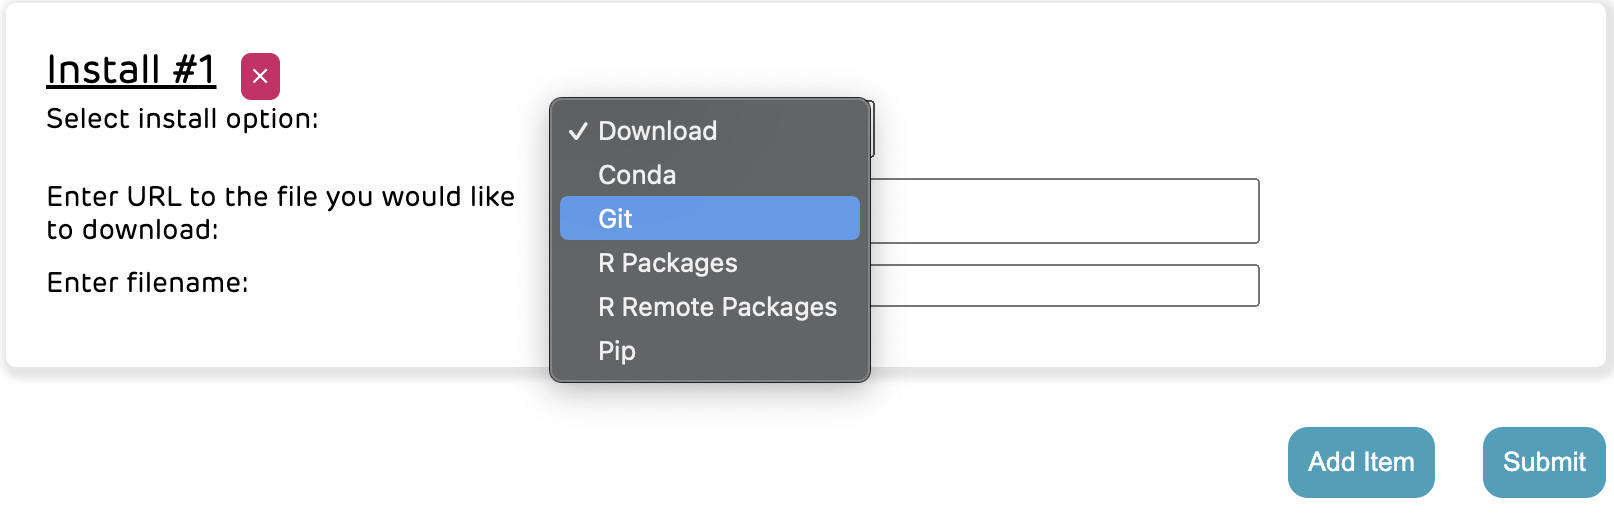
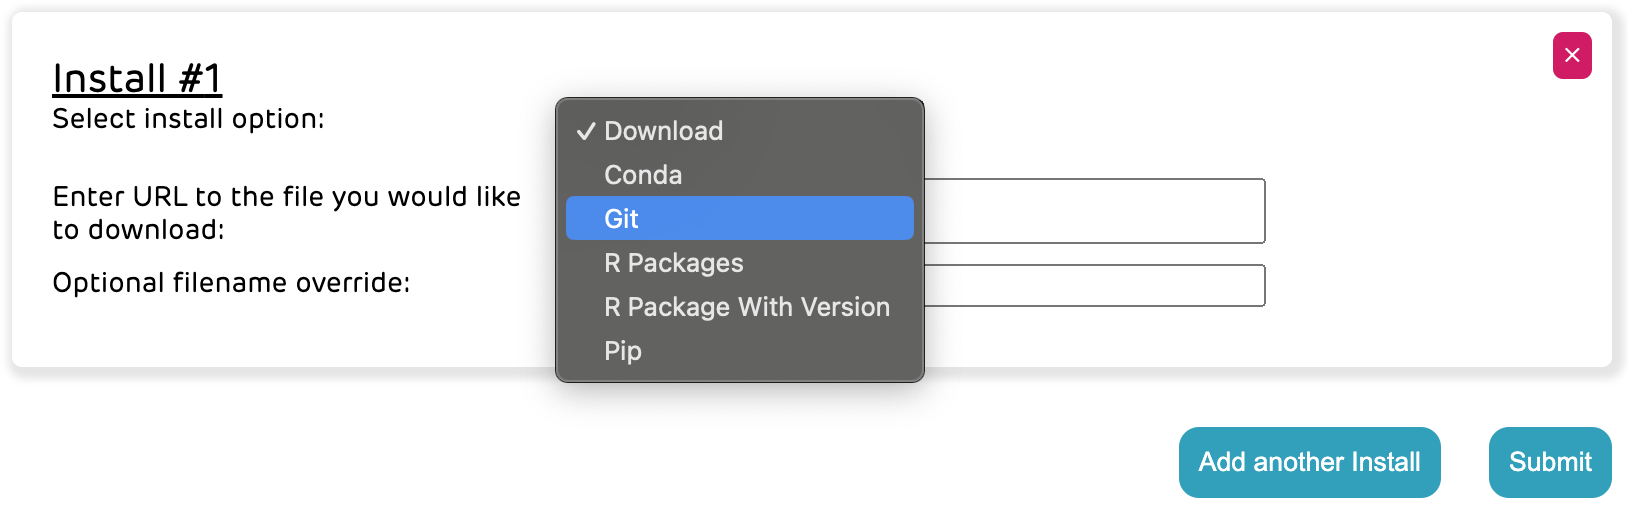
Update screenshots with finalized install tool

diff --git a/arcus_orientation.md b/arcus_orientation.md
@@ -766,9 +766,12 @@ Also fill in what you want to use as the local repository name; usually, this wi
 This will be the name of the directory the files will be saved in in your lab.
 Enter the name of the branch you wish to clone; if you leave it blank, it will clone the default branch for that repository (usually `main`, or `master` for older repositories).
 
-![`The Arcus Install tool, with "https://github.com/arcus/Arcus_Labs_Orientation" entered for "Enter the URL to the repository you would like to clone." "Arcus_Labs_Orientation" is entered for "Enter local repository name." "Enter branch name" is left blank.`](media/install_git_repository.jpg)
+![`The Arcus Install tool, with "https://github.com/arcus/Arcus_Labs_Orientation" entered for "Enter the URL to the repository you would like to clone." "Arcus_Labs_Orientation" is entered for "Enter local repository name." "Enter branch name" is left blank.`](media/install_git_repository.png)
 
-After you click "Submit", it will begin cloning the repository.
+Click "Submit" to start cloning the repository.
+
+![The "Submit" button is at the bottom right of the Arcus Install tool.](media/install_git_submit.png)
+
 You'll see the directory it's cloning to in the messages on the screen -- this will be `~/git/repository_name` where `~` is your home directory (your CHOP username), and `repository_name` is whatever you entered in the Install form.
 In this example, it's `/home/hartmanr1/git/Arcus_Labs_Orientation`.
 
